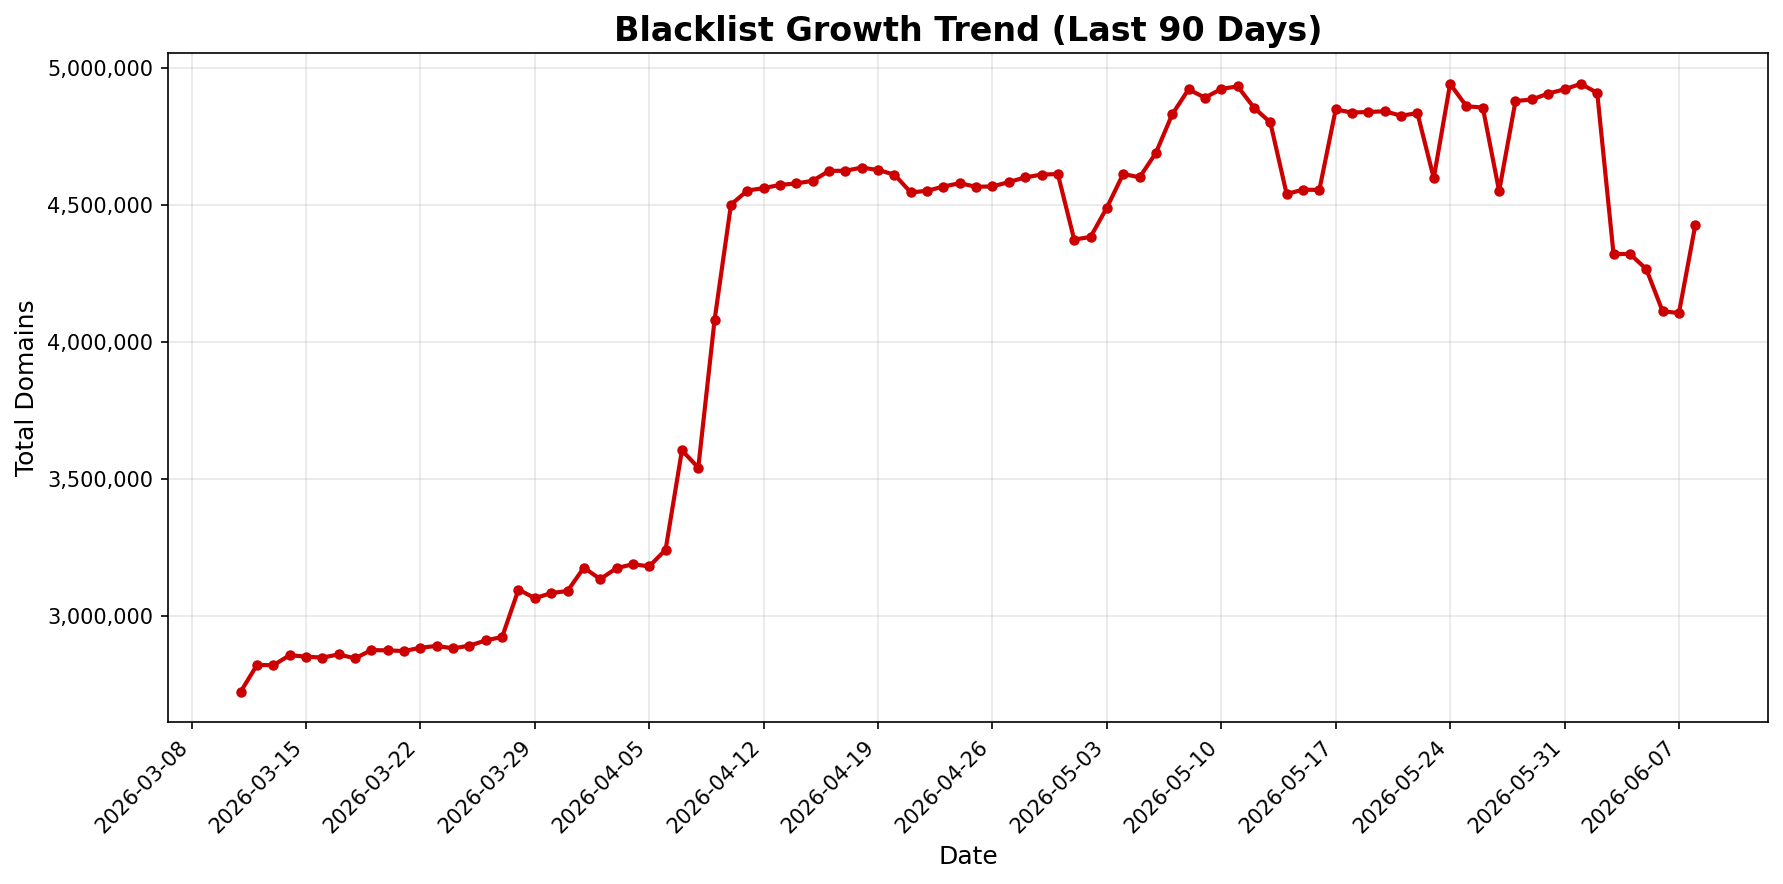
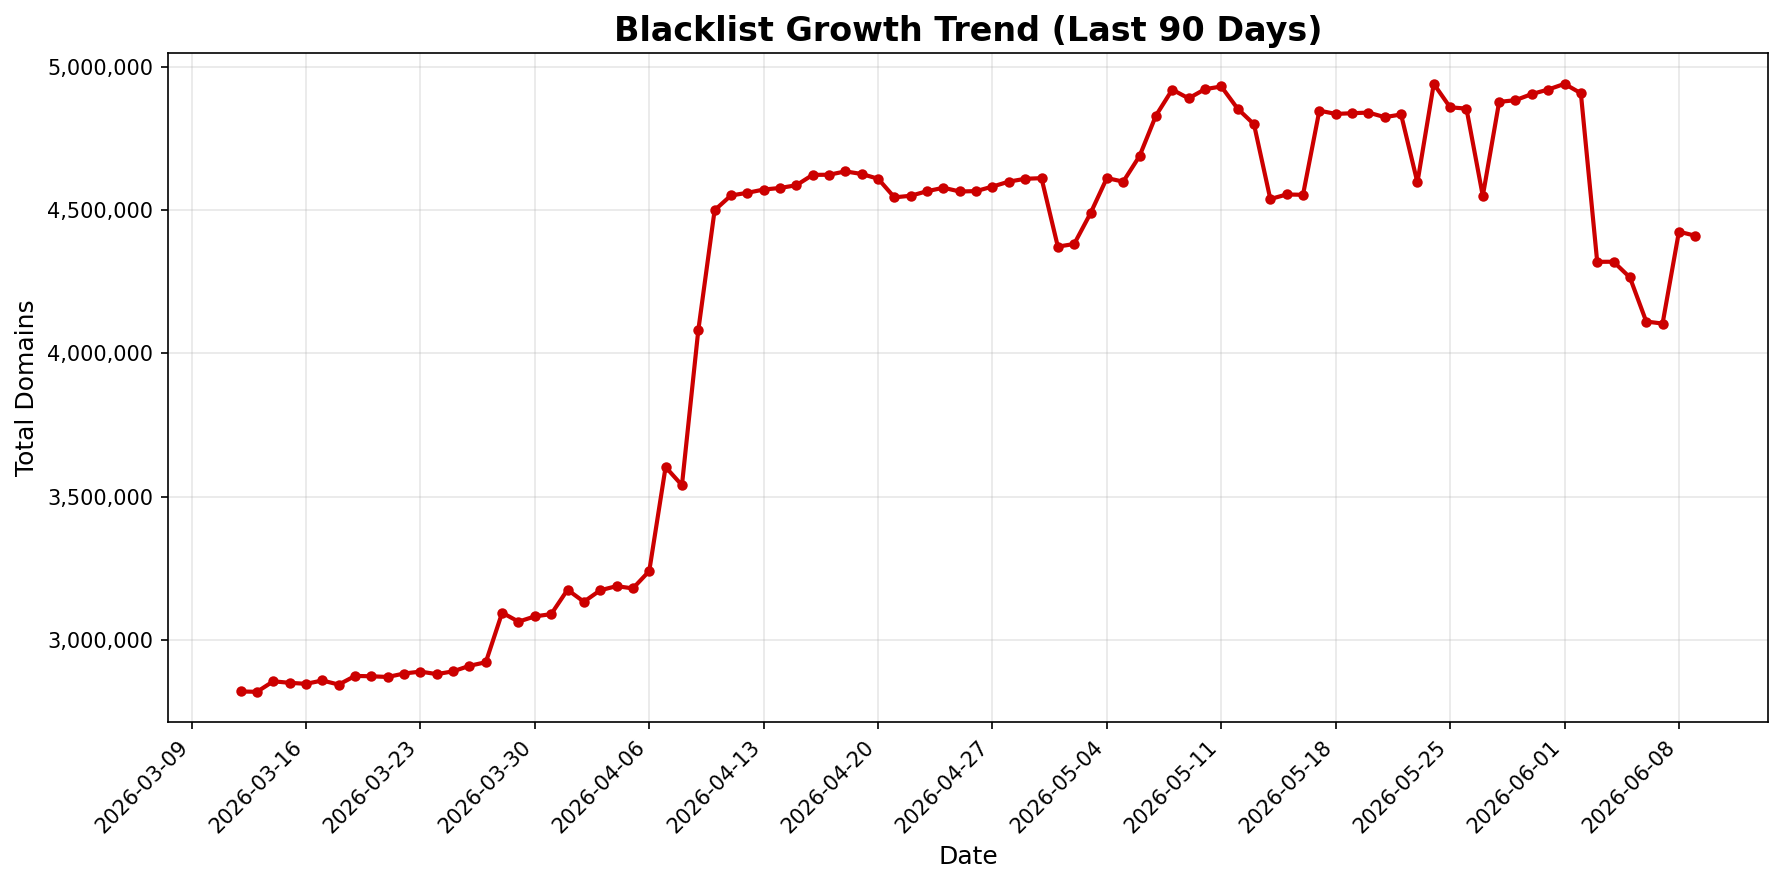
📊 Update daily statistics [skip ci]

diff --git a/README.md b/README.md
@@ -13,20 +13,20 @@ https://github.com/fabriziosalmi/blacklists/releases/download/latest/blacklist.t
 - Bind, PowerDNS (RPZ): **[rpz_blacklist.txt](https://github.com/fabriziosalmi/blacklists/releases/download/latest/rpz_blacklist.txt)** 
 
 
-![Static Badge](https://img.shields.io/badge/blacklists-61-000000) ![Static Badge](https://img.shields.io/badge/blacklisted-4424776-cc0000) ![Static Badge](https://img.shields.io/badge/whitelisted-2269-00CC00) ![Static Badge](https://img.shields.io/badge/streaming_blacklist-28107-000000) ![GitHub issues](https://img.shields.io/github/issues/fabriziosalmi/blacklists)
+![Static Badge](https://img.shields.io/badge/blacklists-61-000000) ![Static Badge](https://img.shields.io/badge/blacklisted-4410528-cc0000) ![Static Badge](https://img.shields.io/badge/whitelisted-2269-00CC00) ![Static Badge](https://img.shields.io/badge/streaming_blacklist-28107-000000) ![GitHub issues](https://img.shields.io/github/issues/fabriziosalmi/blacklists)
 <!-- STATS_START -->
 ## Daily Statistics
 
-**Last Updated**: 2026-06-08 01:54 UTC
+**Last Updated**: 2026-06-09 01:43 UTC
 
 | Metric | Value |
 |--------|-------|
-| **Total Domains** | **4,424,776** |
+| **Total Domains** | **4,410,528** |
 | **Whitelisted** | 2,269 |
 | **Sources** | 61 |
-| **Daily Change** | +320,738 (+7.82%) |
-| **Weekly Change** | -515,892 (-10.44%) |
-| **Monthly Change** | -465,366 (-9.52%) |
+| **Daily Change** | -14,248 (-0.32%) |
+| **Weekly Change** | -497,388 (-10.13%) |
+| **Monthly Change** | -511,551 (-10.39%) |
 
 ![Trend Chart](stats/trend.png)
 
